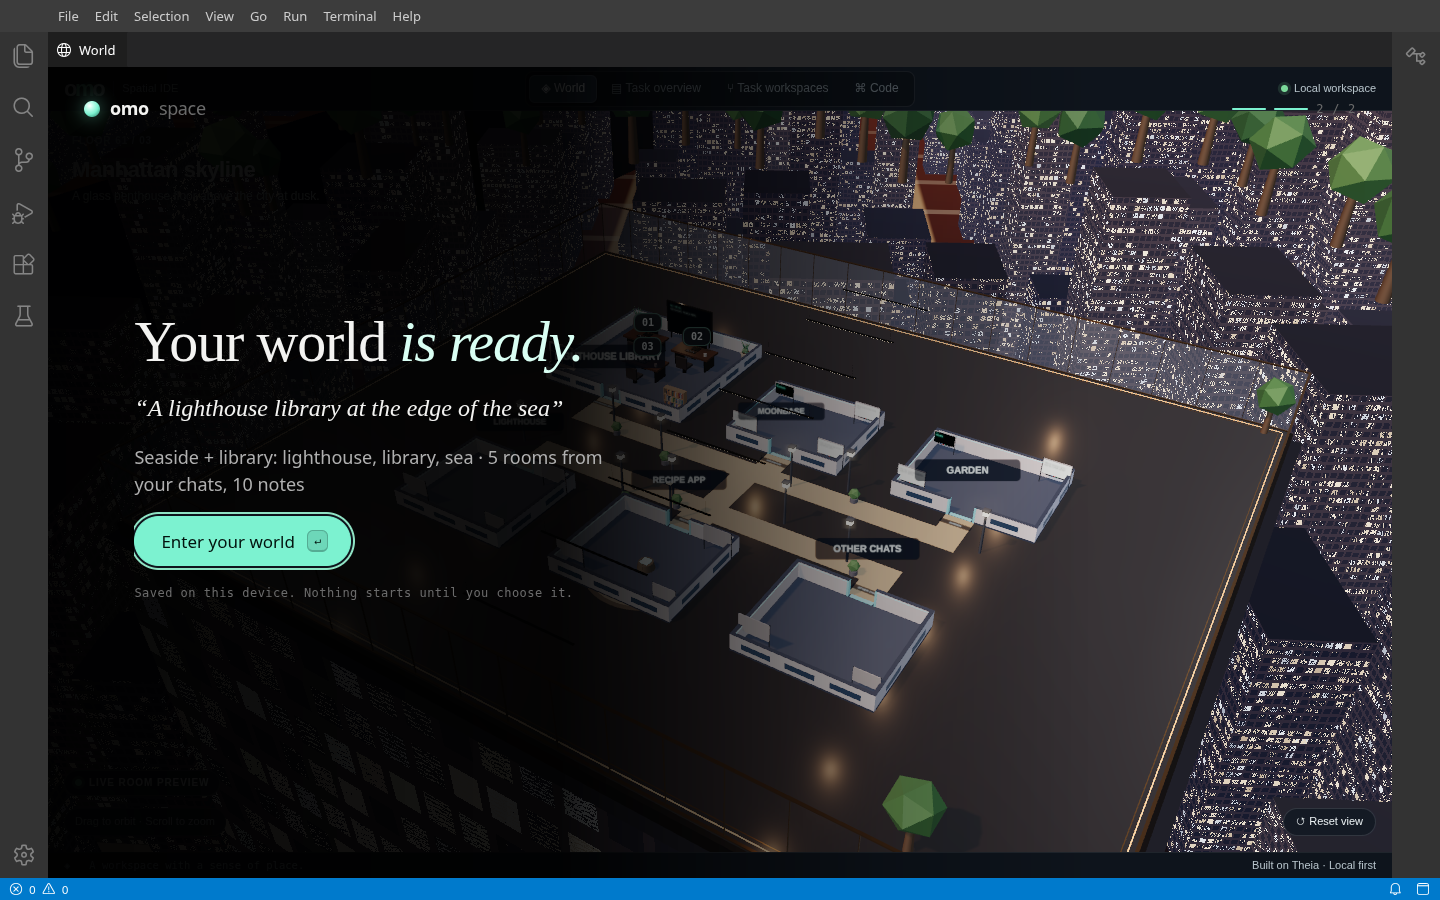
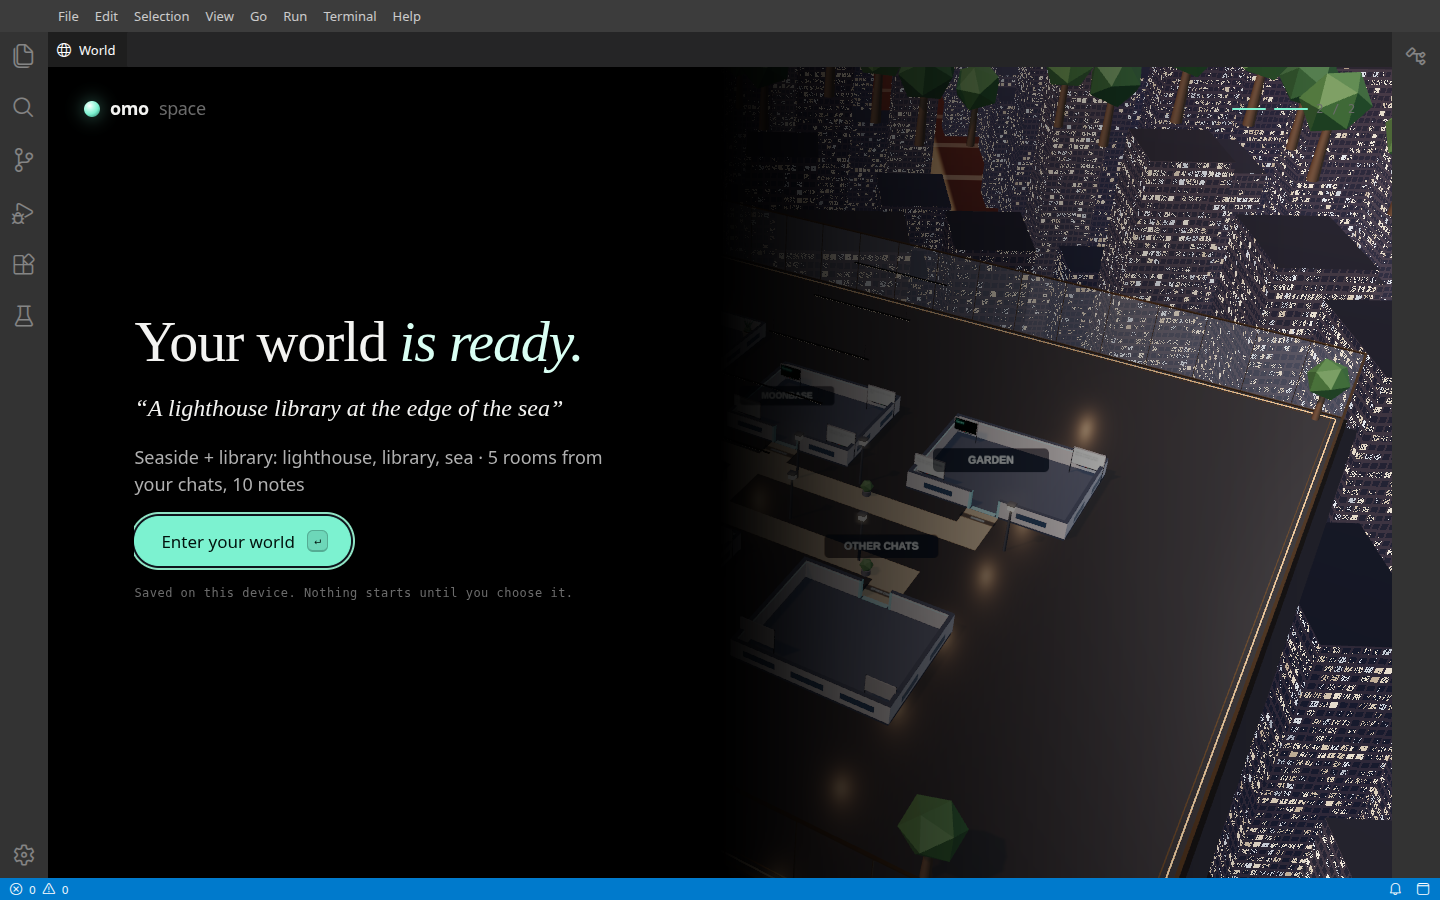
onboarding polish 1/6: no IDE chrome under the first minute — solid black behind the copy column; header pill, Local workspace, theme title ('Manhattan skyline'), LIVE badge, camera hints, desk labels and footer hidden while it is open (data-first-minute on .omo-root). onboarding-real 20/20 (new: ch

diff --git a/omo/extension/src/browser/first-minute.css b/omo/extension/src/browser/first-minute.css
@@ -12,9 +12,16 @@
     transition: background-color 600ms ease;
 }
 .omo-fm-mind, .omo-fm-ready {
-    background: linear-gradient(90deg, rgba(0, 0, 0, .96) 0, rgba(0, 0, 0, .9) 38%, rgba(0, 0, 0, .25) 62%, transparent 78%);
+    /* The copy column (6vw + 520px, <= 50vw) sits on solid black; the world only shows to its right. */
+    background: linear-gradient(90deg, #000 0, #000 max(50%, calc(6vw + 560px)), rgba(0, 0, 0, .72) calc(max(50%, calc(6vw + 560px)) + 9%), rgba(0, 0, 0, .2) 82%, transparent 94%);
     pointer-events: none;
 }
+/* While the first minute is open, none of the world's own chrome shows: no header (view pill, Local workspace,
+   presence), no footer, no theme heading ("Manhattan skyline"), no LIVE badge, no camera hints, no desk labels. */
+.omo-root[data-first-minute="true"] > .omo-header, .omo-root[data-first-minute="true"] > .omo-footer,
+.omo-root[data-first-minute="true"] .omo-stage-heading, .omo-root[data-first-minute="true"] .omo-preview-badge,
+.omo-root[data-first-minute="true"] .omo-scene-controls, .omo-root[data-first-minute="true"] .omo-navigation-switch,
+.omo-root[data-first-minute="true"] .omo-scene-label, .omo-root[data-first-minute="true"] .omo-tool-dock { display: none !important; }
 .omo-fm-mind > *, .omo-fm-ready > * { pointer-events: auto; }
 .omo-fm-mind .omo-fm-sky, .omo-fm-ready .omo-fm-sky, .omo-fm-mind .omo-fm-hz, .omo-fm-ready .omo-fm-hz { display: none; }
 .omo-fm-sky {

diff --git a/omo/extension/src/browser/omo-world-widget.tsx b/omo/extension/src/browser/omo-world-widget.tsx
@@ -1045,7 +1045,7 @@ export class OmoWorldWidget extends ReactWidget {
         const theme = this.configuring ? this.draftTheme : this.room!.theme;
         const layout = this.configuring ? this.draftLayout : this.room?.layout ?? 'classic';
         const taskSourceUri=this.project?.toString();
-        return <main className={`omo-root omo-${theme}`} data-testid="omo-world" data-project-uri={this.project?.toString()||''} data-configured={this.room ? 'true' : 'false'} data-active-station={this.activeMode} data-immersive={String(this.immersive.mode.active)}>
+        return <main className={`omo-root omo-${theme}`} data-testid="omo-world" data-project-uri={this.project?.toString()||''} data-configured={this.room ? 'true' : 'false'} data-active-station={this.activeMode} data-immersive={String(this.immersive.mode.active)} data-first-minute={this.firstMinuteShown() ? 'true' : undefined}>
             {/* world-ui (mount hook): immersive = the ONE slim floating top bar, ⌘K palette and settings sheet. */}
             {this.room && !this.configuring && this.immersive.mode.active && <WorldTopBar roomName={this.room.projectName} view={this.worldView} presence={this.presenceState} hud={this.hudHub} voice={this.voiceHub}
                 error={this.error} onView={this.chooseView} onShare={() => this.openSheet('share')} onPalette={this.openPalette} onSettings={() => this.openSheet('room')}/>}
